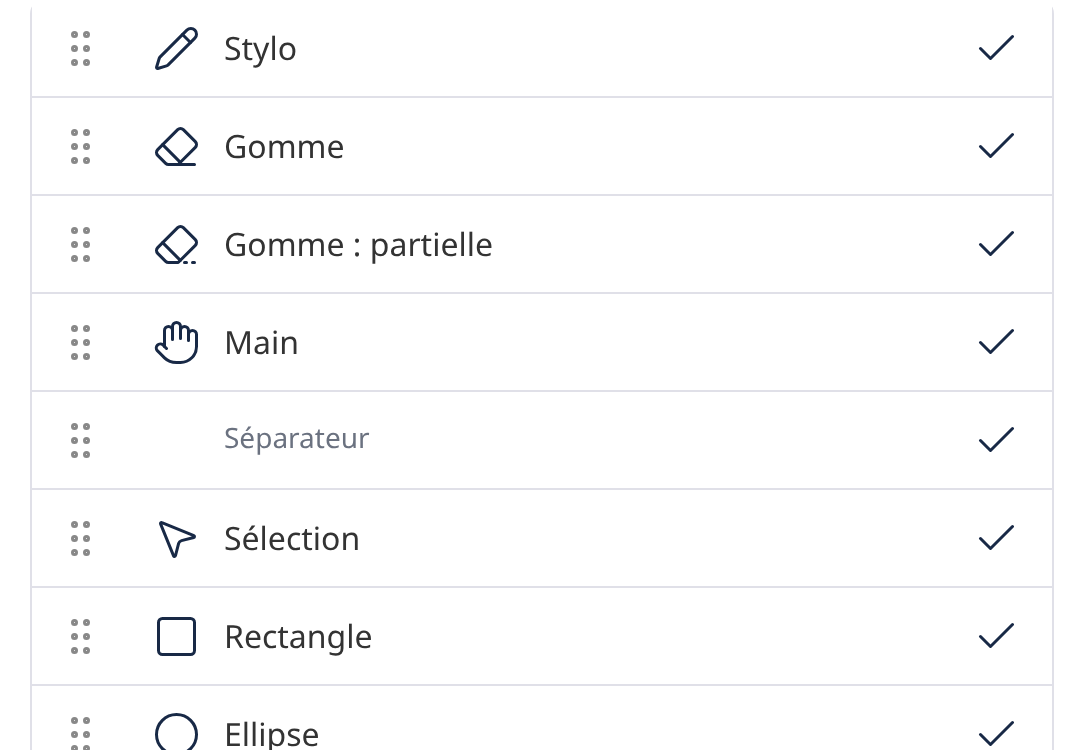
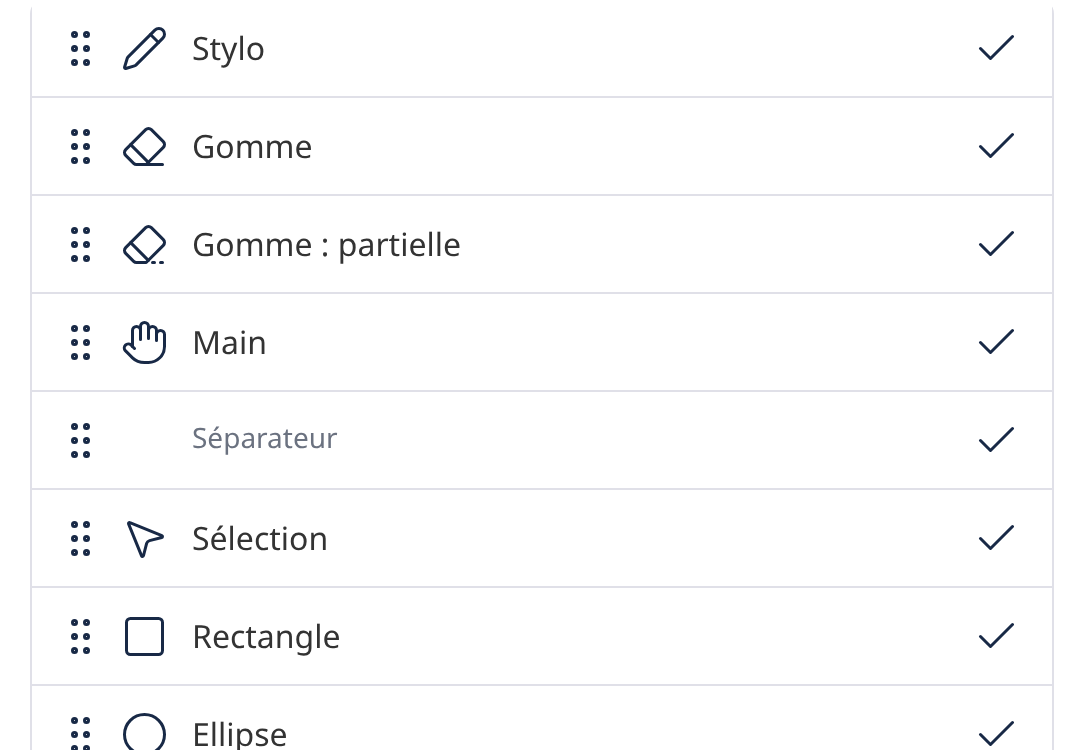
fix(design-l3): size section, navy grips, close button alignment, hidden bar title, grip offset

diff --git a/apps/web/src/ui/rb.css b/apps/web/src/ui/rb.css
@@ -202,7 +202,7 @@ html[data-cadre="1"] .rb-annot-frame { display: block; }
    fraction de pixel (cases de 96, cartes de 250, segments de 504 / n). */
 .rb-popover[data-panel="profils"] { justify-self: end; align-self: stretch; inline-size: min(600px, 100%); overflow: hidden; border: 0; box-shadow: 0 0 0 1px var(--rf-gray-300), var(--rf-shadow-modal); }
 .rb-sheet { display: flex; flex-direction: column; block-size: 100%; background: var(--rf-white); color: var(--rf-gray-800); font-size: 16px; line-height: 24px; }
-.rb-sheet-head { flex: none; display: flex; align-items: center; justify-content: space-between; block-size: 80px; padding: 0 var(--rf-space-md) 0 44px; border-block-end: 1px solid var(--rf-gray-300); }
+.rb-sheet-head { flex: none; display: flex; align-items: center; justify-content: space-between; block-size: 80px; padding: 0 28px 0 44px; border-block-end: 1px solid var(--rf-gray-300); }
 .rb-sheet-head h2 { margin: 0; font-size: 20px; line-height: 28px; font-weight: 600; color: var(--rf-navy-500); }
 .rb-sheet-body { flex: 1 1 auto; min-block-size: 0; overflow-y: auto; scrollbar-gutter: stable both-edges; display: grid; grid-template-columns: min(512px, 100%); justify-content: center; align-content: start; row-gap: var(--rf-space-lg); padding: 20px var(--rf-space-lg); }
 .rb-sheet-foot { flex: none; display: flex; align-items: center; justify-content: space-between; gap: var(--rf-space-md); block-size: 80px; padding: 0 44px; border-block-start: 1px solid var(--rf-gray-300); }
@@ -278,7 +278,8 @@ html[data-cadre="1"] .rb-annot-frame { display: block; }
 .rb-item[data-unknown] { color: var(--rf-text-muted-aa); font-style: italic; }
 .rb-item[data-dragging] { z-index: 1; background: var(--rf-white); box-shadow: var(--rf-shadow-hover); }
 .rb-items[data-sorting] .rb-item:not([data-dragging]) { transition: transform 120ms ease; }
-.rb-grip { display: grid; place-items: center; flex: none; inline-size: 48px; block-size: 48px; padding: 0; border: 0; background: transparent; color: var(--rf-gray-500); cursor: grab; touch-action: none; }
+.rb-grip { display: grid; place-items: center; flex: none; inline-size: 48px; block-size: 48px; padding: 0; border: 0; background: transparent; color: var(--rf-navy-500); cursor: grab; touch-action: none; margin-inline-end: -16px; }
+.rb-item[data-hidden] .rb-grip { color: var(--rf-gray-500); }
 /* design-l3 (L3-18) : préréglages ; pastille ronde de 32 px dans une cible de 48 px. */
 .rb-presets { display: flex; flex-direction: column; gap: var(--rf-space-sm); margin-block-end: var(--rf-space-sm); }
 .rb-presets ul { list-style: none; margin: 0; padding: 0; display: flex; flex-direction: column; gap: var(--rf-space-sm); }

diff --git a/apps/web/src/ui/rb-css.test.ts b/apps/web/src/ui/rb-css.test.ts
@@ -137,6 +137,9 @@ describe("rb.css (design-l4, L4-16)", () => {
     }
   });
   it("design-l3 L3-24 : cibles de 48 px ou plus (poignée, boutons à icône, segments, vignettes de 80 px, cartes de 104 px)", () => {
+    expect(rule(".rb-grip")).toContain("color: var(--rf-navy-500);");
+    expect(rule(".rb-grip")).toContain("margin-inline-end: -16px;");
+    expect(rule(".rb-item[data-hidden] .rb-grip")).toContain("color: var(--rf-gray-500);");
     expect(rule(".rb-grip")).toMatch(/inline-size: 48px;.*block-size: 48px;.*touch-action: none;/);
     expect(rule(".rb-sheet button.rb-ib")).toMatch(/inline-size: 48px;.*block-size: 48px;/);
     expect(rule('.rb-radios[data-look="segment"] .rb-radio')).toContain("min-block-size: 48px;");
@@ -176,7 +179,7 @@ describe("rb.css (design-l4, L4-16)", () => {
     // Corps : 600 - 2 x 24 = 552 ; gouttière des deux côtés (barre b) : colonne de 512 centrée à (552 - 2b - 512) / 2 = 20 - b,
     // entier quelle que soit la barre de défilement ; bords de la colonne à 44 px du panneau, comme l'en-tête et le pied.
     expect(rule(".rb-sheet-body")).toMatch(/scrollbar-gutter: stable both-edges;.*display: grid;.*grid-template-columns: min\(512px, 100%\);.*justify-content: center;.*padding: 20px var\(--rf-space-lg\);/);
-    expect(rule(".rb-sheet-head")).toContain("padding: 0 var(--rf-space-md) 0 44px;");
+    expect(rule(".rb-sheet-head")).toContain("padding: 0 28px 0 44px;");
     expect(rule(".rb-sheet-foot")).toContain("padding: 0 44px;");
     // En-tête et pied : 80 px de contenu, bordure en plus (pas border-box) : un bouton de 48 px y tombe à 16 px.
     for (const sel of [".rb-sheet-head", ".rb-sheet-foot"]) expect(rule(sel), sel).not.toContain("border-box");

diff --git a/apps/web/src/ui/ProfileEditor.test.tsx b/apps/web/src/ui/ProfileEditor.test.tsx
@@ -97,7 +97,9 @@ const pointer = (type: string, y: number): PointerEvent => new PointerEvent(type
 describe("ProfileEditor (C1, P20 ; design-l3)", () => {
   it("L3-5 : sections profil, général, barres, préréglages, nouveau ; un bloc de barre à la fois ; dialogue « Profils »", () => {
     const { container } = setup();
-    expect([...container.querySelectorAll("[data-edit-section]")].map((s) => s.getAttribute("data-edit-section"))).toEqual(["profile", "general", "bars", "presets", "new"]);
+    expect([...container.querySelectorAll("[data-edit-section]")].map((s) => s.getAttribute("data-edit-section"))).toEqual(["profile", "general", "size", "bars", "presets", "new"]);
+    expect(container.querySelector('[data-edit-section="size"] h3')?.textContent).toBe("Taille des boutons");
+    expect(container.querySelector('[data-edit-bar] h4')?.classList.contains("rb-sr")).toBe(true);
     expect([...container.querySelectorAll("[data-edit-bar]")].map((b) => b.getAttribute("data-edit-bar"))).toEqual(["outils"]);
     expect([...container.querySelectorAll('[data-edit="bar"] [data-choice]')].map((b) => [b.getAttribute("data-choice"), b.textContent])).toEqual([["outils", "Barre d'outils"], ["pages", "Barre des pages"], ["annotation", "Barre d'annotation"]]);
     expect(container.querySelectorAll("[data-edit-preset]")).toHaveLength(3);

diff --git a/apps/web/src/ui/ProfileEditor.tsx b/apps/web/src/ui/ProfileEditor.tsx
@@ -264,7 +264,7 @@ function BarBlock(props: {
   );
   return (
     <div class="rb-sheet-bar" data-edit-bar={props.bar.id}>
-      <h4>{props.label}</h4>
+      <h4 class="rb-sr">{props.label}</h4>
       <Show when={props.note}>
         <p class="rb-note" data-edit="annotation-note">
           {ANNOTATION_NOTE}
@@ -554,6 +554,8 @@ export function ProfileEditor(props: ProfileEditorProps): JSX.Element {
           <h3>Au démarrage</h3>
           <RadioChoices name="start-mode" label="Au démarrage" look="card" options={START_OPTIONS} value={draft().behavior.startMode} choose={(m) => edit((p) => setStartMode(p, m))} />
           <p class="rb-note">{START_NOTE}</p>
+        </section>
+        <section data-edit-section="size">
           <h3>Taille des boutons</h3>
           <RadioChoices name="button-size" label="Taille des boutons" look="segment" options={SIZE_OPTIONS} value={draft().interface.buttonSize} choose={(s) => edit((p) => setButtonSize(p, s))} />
         </section>

diff --git a/docs/essais/design-l3-comparaison.md b/docs/essais/design-l3-comparaison.md
@@ -32,7 +32,8 @@ Lignes de l'essai (journal `T9-captures.log`, sur le build de `feat/design-l3` @
 | entête | Importer / Exporter avec texte, 128 px | D-DS1 | la maquette les montrait en icône seule ; texte + icône : cible lisible, ≥ 48 px de haut | texte visible, icônes identiques |
 | entête | × Fermer en icône seule avec infobulle | glyphe universel, maquette | pas de texte : glyphe connu, nom accessible par `aria-label` et infobulle | conforme à l'attendu |
 | cartes | police du système au lieu d'Inter | H18 | Inter non embarquée (Q6) | glyphes Noto Sans plus larges : « RoomBoard s'ouvre sur le tableau. » passe sur 2 lignes (une seule dans la maquette) |
-| cartes | note « Sans annotation possible… » collée au titre « Taille des boutons » | — | non justifié : à corriger (espacement à reprendre) | sur la capture du panneau, la note touche presque le titre ; la maquette laisse un blanc |
+| cartes | note « Sans annotation possible… » presque collée au titre « Taille des boutons » | — | corrigé (T11) : « Taille des boutons » dans sa propre section `size`, blanc de section rétabli | voir `design-l3-apres-panneau.png` |
+| tout | police : Noto Sans du système au lieu d'Inter (500 rendu en 400, 600 en 700) | H18 | hors lot ; Q6 à trancher par Jérôme | écart à revoir |
 | vignettes | section « Taille des boutons » à part, au-dessus des barres | H14 | taille globale au profil | maquette : emplacements d'abord, tailles dessous ; ici l'ordre est inverse |
 | vignettes | commande « Barre d'outils / des pages / d'annotation » au-dessus des vignettes | H5 | une barre à la fois | absent de la maquette : ajouté |
 | vignettes | segments à largeur fractionnaire au-delà de 4 barres (5 barres : 100,8 px) | — | non prouvés nets, à revoir | non mesuré : 3 segments (Petits / Moyens / Grands) seuls mesurés nets |
